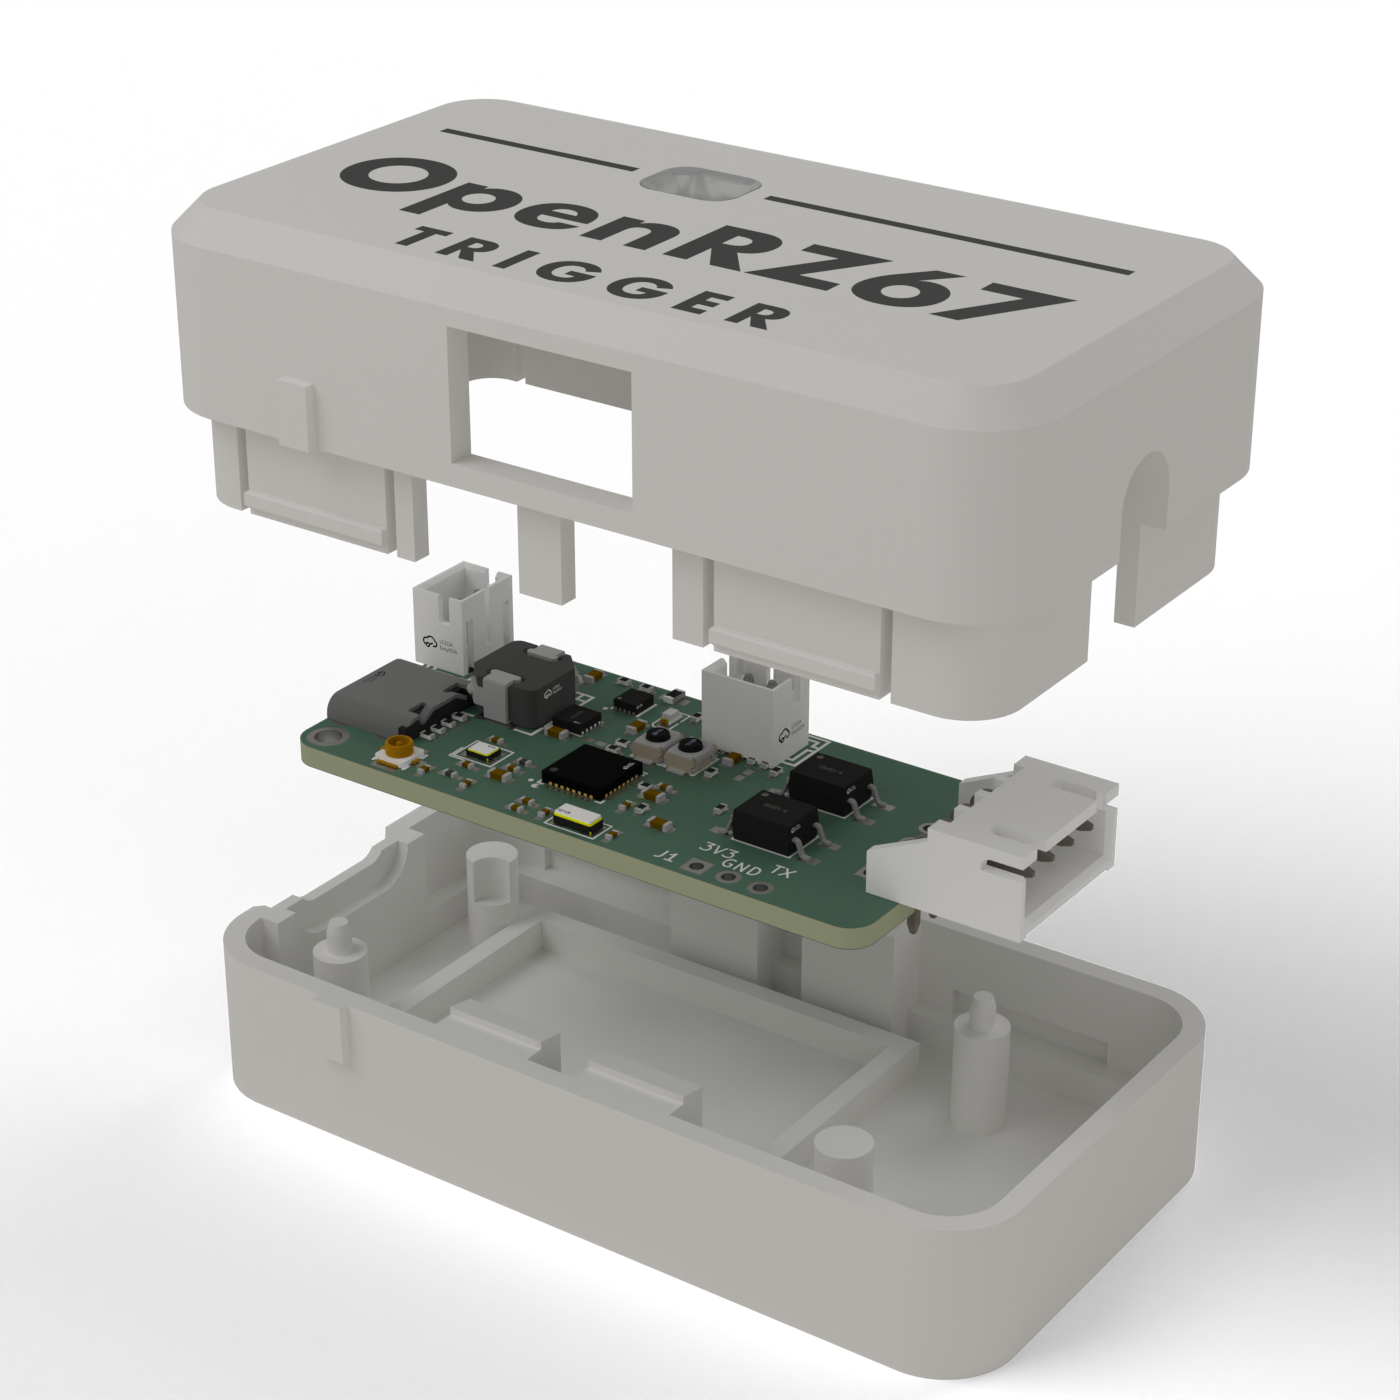
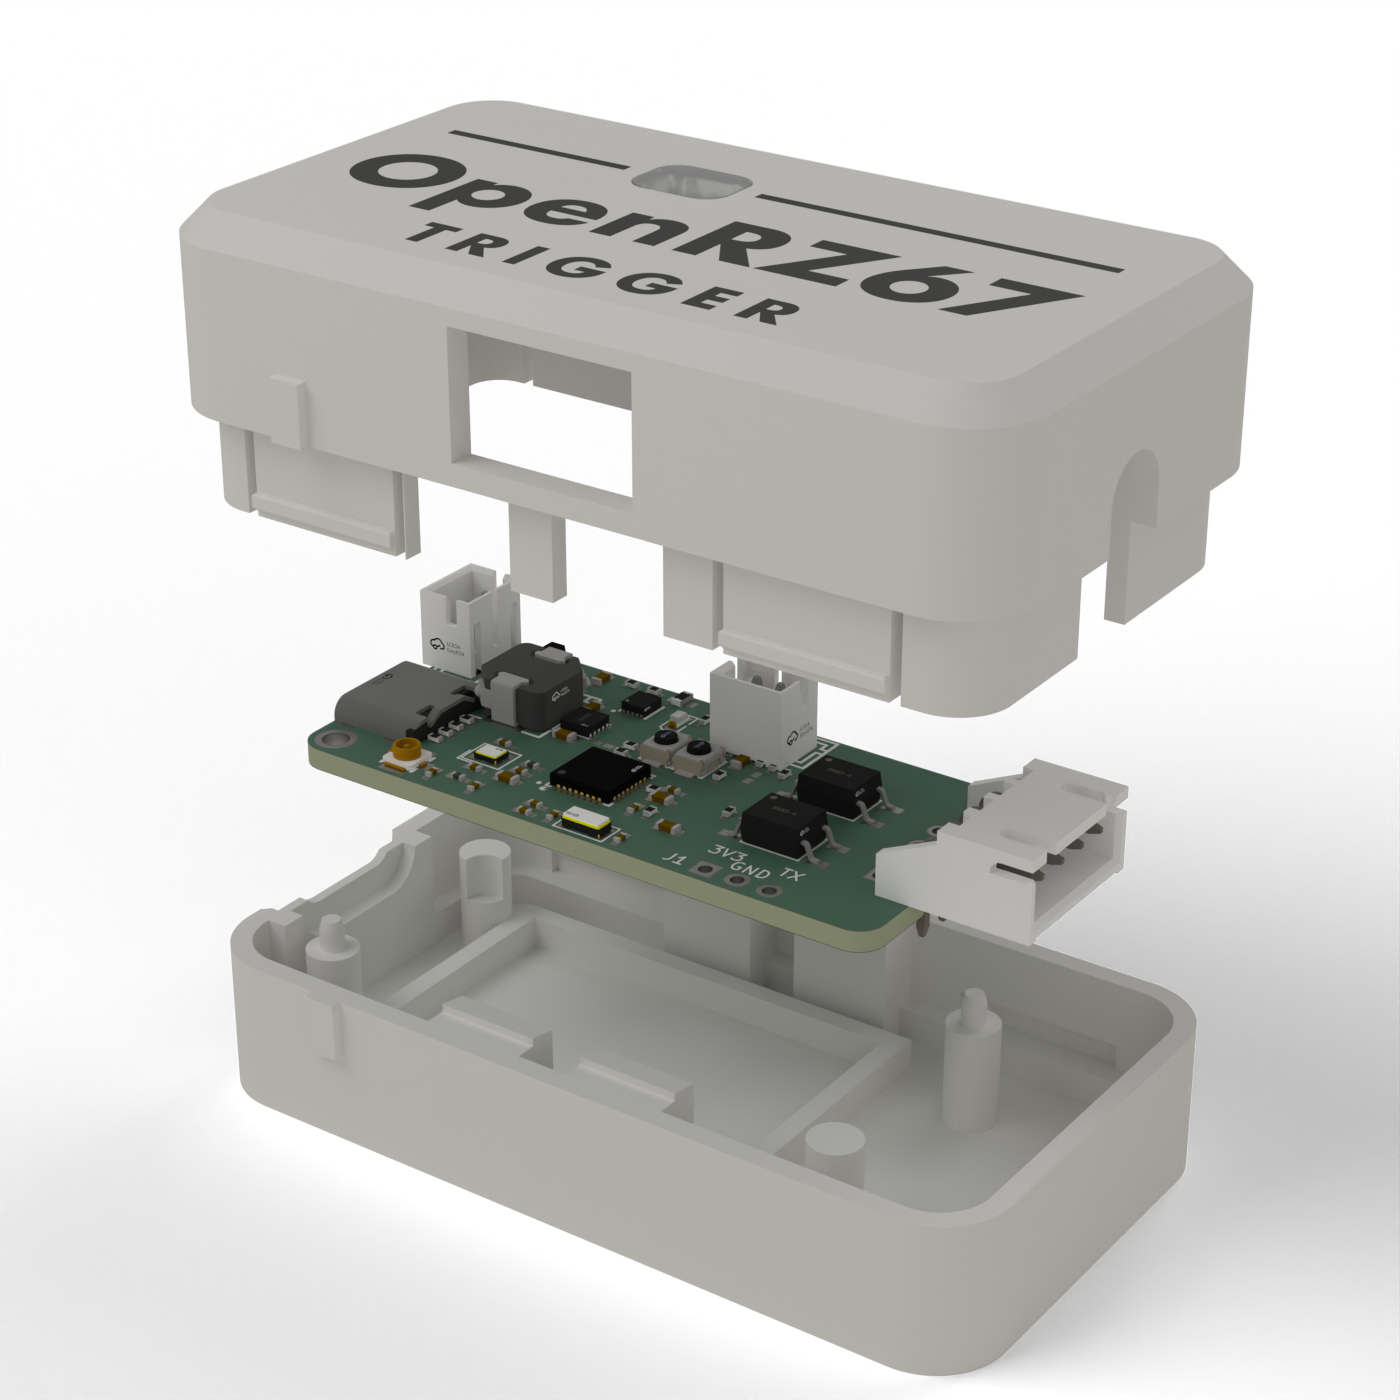
Link rev 2 fab package and pcb-rev2 tag, re-render case on rev 3
Get a board now points at the verified rev 2 package instead of the
unbuilt rev 3 outputs; rev 3 flash env, case fit, roadmap entry,
schematic/BOM/issues links, releases/latest. pcb-top.png is the rev 2
archive render (the old one was a pre-order draft).

diff --git a/index.html b/index.html
@@ -114,11 +114,11 @@ footer a:hover{text-decoration:underline}
 </div>
 <div class="hardware">
 <figure>
-<a class="pcb" href="img/case-pcb.png"><img src="img/case-pcb.png" width="1400" height="1400" fetchpriority="high" alt="Exploded CAD view of the OpenRZ67 trigger: white lid with black inlaid lettering and a light pipe above the rev 2 PCB, with the enclosure base below"></a>
-<figcaption>Case + rev 2 PCB · CAD render<br>Battery, switch and wiring omitted.</figcaption>
+<a class="pcb" href="img/case-pcb.png"><img src="img/case-pcb.png?v=rev3" width="1400" height="1400" fetchpriority="high" alt="Exploded CAD view of the OpenRZ67 trigger: white lid with black inlaid lettering and a light pipe above the rev 3 PCB, with the enclosure base below"></a>
+<figcaption>Case + rev 3 PCB · CAD render<br>Battery, switch and wiring omitted.</figcaption>
 </figure>
 <figure>
-<a class="pcb pcb-top" href="img/pcb-top.png"><img src="img/pcb-top.png" width="1400" height="700" alt="Top view of the rev 2 trigger PCB, showing the ESP32-C3, two PhotoMOS relays, USB-C port and camera connector"></a>
+<a class="pcb pcb-top" href="img/pcb-top.png"><img src="img/pcb-top.png?v=rev2" width="1400" height="700" alt="Top view of the rev 2 trigger PCB, showing the ESP32-C3, two PhotoMOS relays, USB-C port and camera connector"></a>
 <figcaption>Rev 2 PCB · top view</figcaption>
 </figure>
 </div>
@@ -137,7 +137,7 @@ footer a:hover{text-decoration:underline}
 <li>KiCad project, Gerbers, BOM and pick-and-place files</li>
 <li>3D-printable enclosure, print-tested and in regular use</li>
 </ul>
-<div class="links"><a href="https://github.com/openrz67/openrz67-trigger">Repository</a><a href="https://github.com/openrz67/openrz67-trigger/tree/main/pcb/kicad">PCB files</a><a href="https://github.com/openrz67/openrz67-trigger#ble-protocol">BLE protocol</a></div>
+<div class="links"><a href="https://github.com/openrz67/openrz67-trigger">Repository</a><a href="https://github.com/openrz67/openrz67-trigger/blob/main/pcb/kicad/out/openrz67-schematic.pdf">Schematic (PDF)</a><a href="https://github.com/openrz67/openrz67-trigger/blob/main/BOM.md">BOM</a><a href="https://github.com/openrz67/openrz67-trigger/tree/main/pcb/archive/2026-09-07-rev2">Rev 2 fab files</a><a href="https://github.com/openrz67/openrz67-trigger/tree/main/pcb/kicad">KiCad source (rev 3)</a><a href="https://github.com/openrz67/openrz67-trigger#ble-protocol">BLE protocol</a><a href="https://github.com/openrz67/openrz67-trigger/issues">Issues</a></div>
 </article>
 <article class="card">
 <div class="top"><h3>openrz67-android</h3><span class="status ok" id="av">v1.1 released</span></div>
@@ -147,13 +147,13 @@ footer a:hover{text-decoration:underline}
 <li>Auto-connect and reconnect over BLE</li>
 <li>APK on the releases page, or build with Gradle</li>
 </ul>
-<div class="links"><a href="https://github.com/openrz67/openrz67-android">Repository</a><a href="https://github.com/openrz67/openrz67-android/releases">Download APK</a></div>
+<div class="links"><a href="https://github.com/openrz67/openrz67-android">Repository</a><a href="https://github.com/openrz67/openrz67-android/releases/latest">Download APK</a><a href="https://github.com/openrz67/openrz67-android/issues">Issues</a></div>
 </article>
 <article class="card plan">
 <div class="top"><h3>openrz67-ios</h3><span class="status plan">planned</span></div>
 <p>An iPhone app speaking the same BLE protocol. Not started yet. If you want to build it, the protocol is a handful of single-byte commands and fully documented.</p>
 <ul><li>Same feature set as the Android app</li><li>Contributions welcome</li></ul>
-<div class="links"><a href="#roadmap">Roadmap</a></div>
+<div class="links"><a href="https://github.com/openrz67/openrz67-trigger#ble-protocol">BLE protocol</a><a href="#roadmap">Roadmap</a></div>
 </article>
 </div>
 </div></section>
@@ -207,11 +207,11 @@ footer a:hover{text-decoration:underline}
 <h2>Build one.</h2>
 <p class="lead">This is a hobby project under active development. As of today, if you want one, you'll have to build one yourself. You can either create your own board, or order a batch of the pre-designed PCBs from JLCPCB. Rev 2 boards are in regular use. Rev 1 is deprecated. The repo has moved on to rev 3 since that batch &mdash; same function, plus battery voltage sensing, a reverse-battery P-FET on the cell input and paste windows on the exposed pads; not yet ordered. Read the trigger README before ordering anything.</p>
 <ol class="steps">
-<li><h3>Get a board</h3><p>Order the PCB from the Gerbers in <a href="https://github.com/openrz67/openrz67-trigger/tree/main/pcb/kicad/out">pcb/kicad/out</a>.</p></li>
-<li><h3>Flash the firmware</h3><p>Clone the trigger repo and run <code>pio run -t upload</code> with PlatformIO. Hold BOOT while resetting if upload doesn't start.</p></li>
+<li><h3>Get a board</h3><p>Order the verified rev 2 from its <a href="https://github.com/openrz67/openrz67-trigger/tree/main/pcb/archive/2026-09-07-rev2">fab package</a>: Gerbers, BOM and pick-and-place exactly as ordered, KiCad source at tag <a href="https://github.com/openrz67/openrz67-trigger/tree/pcb-rev2/pcb/kicad">pcb-rev2</a>. Rev 3 is in <a href="https://github.com/openrz67/openrz67-trigger/tree/main/pcb/kicad/out">pcb/kicad/out</a>, not yet built.</p></li>
+<li><h3>Flash the firmware</h3><p>Clone the trigger repo and run <code>pio run -t upload</code> with PlatformIO. That flashes rev 2; for rev 3 use <code>pio run -e rev3 -t upload</code>. Hold BOOT while resetting if upload doesn't start.</p></li>
 <li><h3>Make the cable</h3><p>Four-pin JST XH at the board end; at the camera end, four Dupont sleeves in a printed clamshell plug (<code>case/camera_plug.py</code>). Leave pin 1 unconnected and double-check orientation before you plug it in. The cell, switch, antenna and connectors are listed in <a href="https://github.com/openrz67/openrz67-trigger/blob/main/BOM.md">BOM.md</a>.</p></li>
-<li><h3>Print the case</h3><p>Get the enclosure files and printing instructions from <a href="https://github.com/openrz67/openrz67-trigger/tree/main/case">case/</a> in the trigger repo. The battery sits under the PCB. The case is print-tested and in regular use. Read the case README before printing.</p></li>
-<li><h3>Install the app</h3><p>Grab the APK from <a href="https://github.com/openrz67/openrz67-android/releases">releases</a>. Power on the trigger and the app connects on its own.</p></li>
+<li><h3>Print the case</h3><p>Get the enclosure files and printing instructions from <a href="https://github.com/openrz67/openrz67-trigger/tree/main/case">case/</a> in the trigger repo. The battery sits under the PCB. Drawn for rev 2; rev 3 keeps the same outline, holes and connector positions. The case is print-tested and in regular use. Read the case README before printing.</p></li>
+<li><h3>Install the app</h3><p>Grab the APK from <a href="https://github.com/openrz67/openrz67-android/releases/latest">releases</a>. Power on the trigger and the app connects on its own.</p></li>
 </ol>
 </div></section>
 
@@ -220,6 +220,7 @@ footer a:hover{text-decoration:underline}
 <h2>Where it's heading.</h2>
 <ul class="road">
 <li><span class="status ok">done</span><div><strong>Rev 2 in regular use</strong><p>PhotoMOS relays instead of mechanical, side-entry camera connector, BQ25185 charger and TPS63031 buck-boost. Tested on USB and battery, September 2026.</p></div></li>
+<li><span class="status wip">in progress</span><div><strong>Rev 3</strong><p>Battery voltage sensing with the standard Battery Service, a reverse-battery P-FET on the cell input and paste windows on the exposed pads. Designed and in the repo, not yet ordered.</p></div></li>
 <li><span class="status ok">done</span><div><strong>Print-tested enclosure</strong><p>Stacked snap-fit case with the cell under the PCB. In regular use, with minor refinements ongoing.</p></div></li>
 <li><span class="status plan">planned</span><div><strong>iOS app</strong><p>Same protocol, same three modes. Open to contributors.</p></div></li>
 <li><span class="status plan">ideas</span><div><strong>More of the RZ67 system</strong><p>The remote port is only the first thing on this camera worth opening up.</p></div></li>
